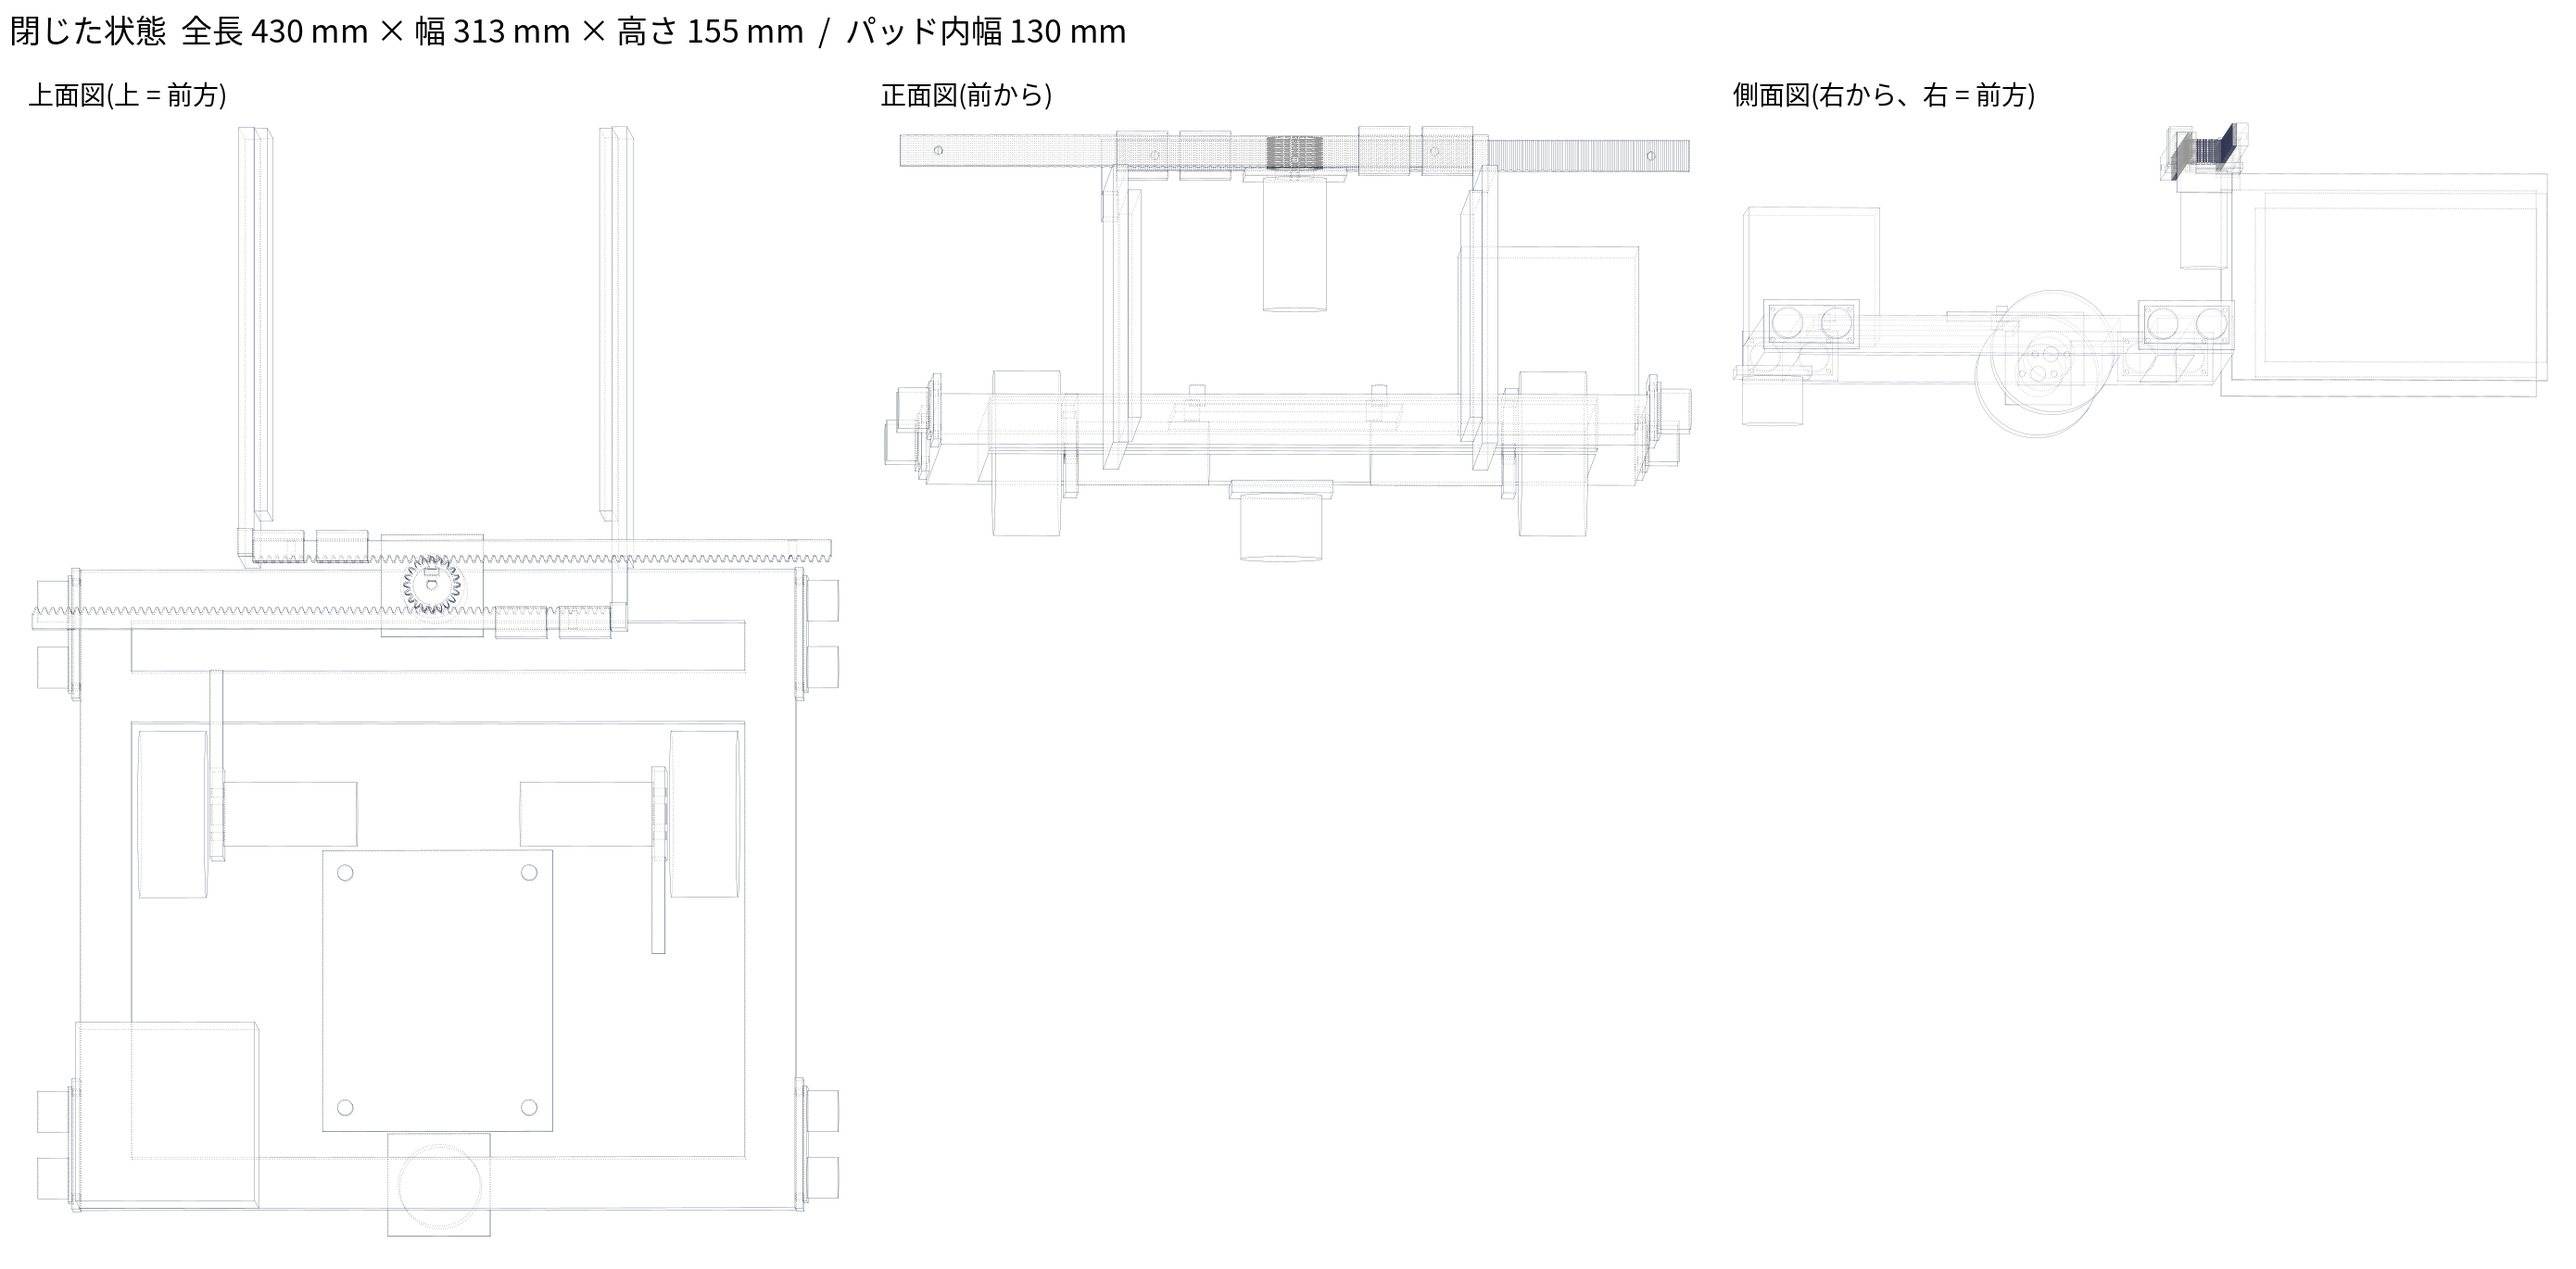
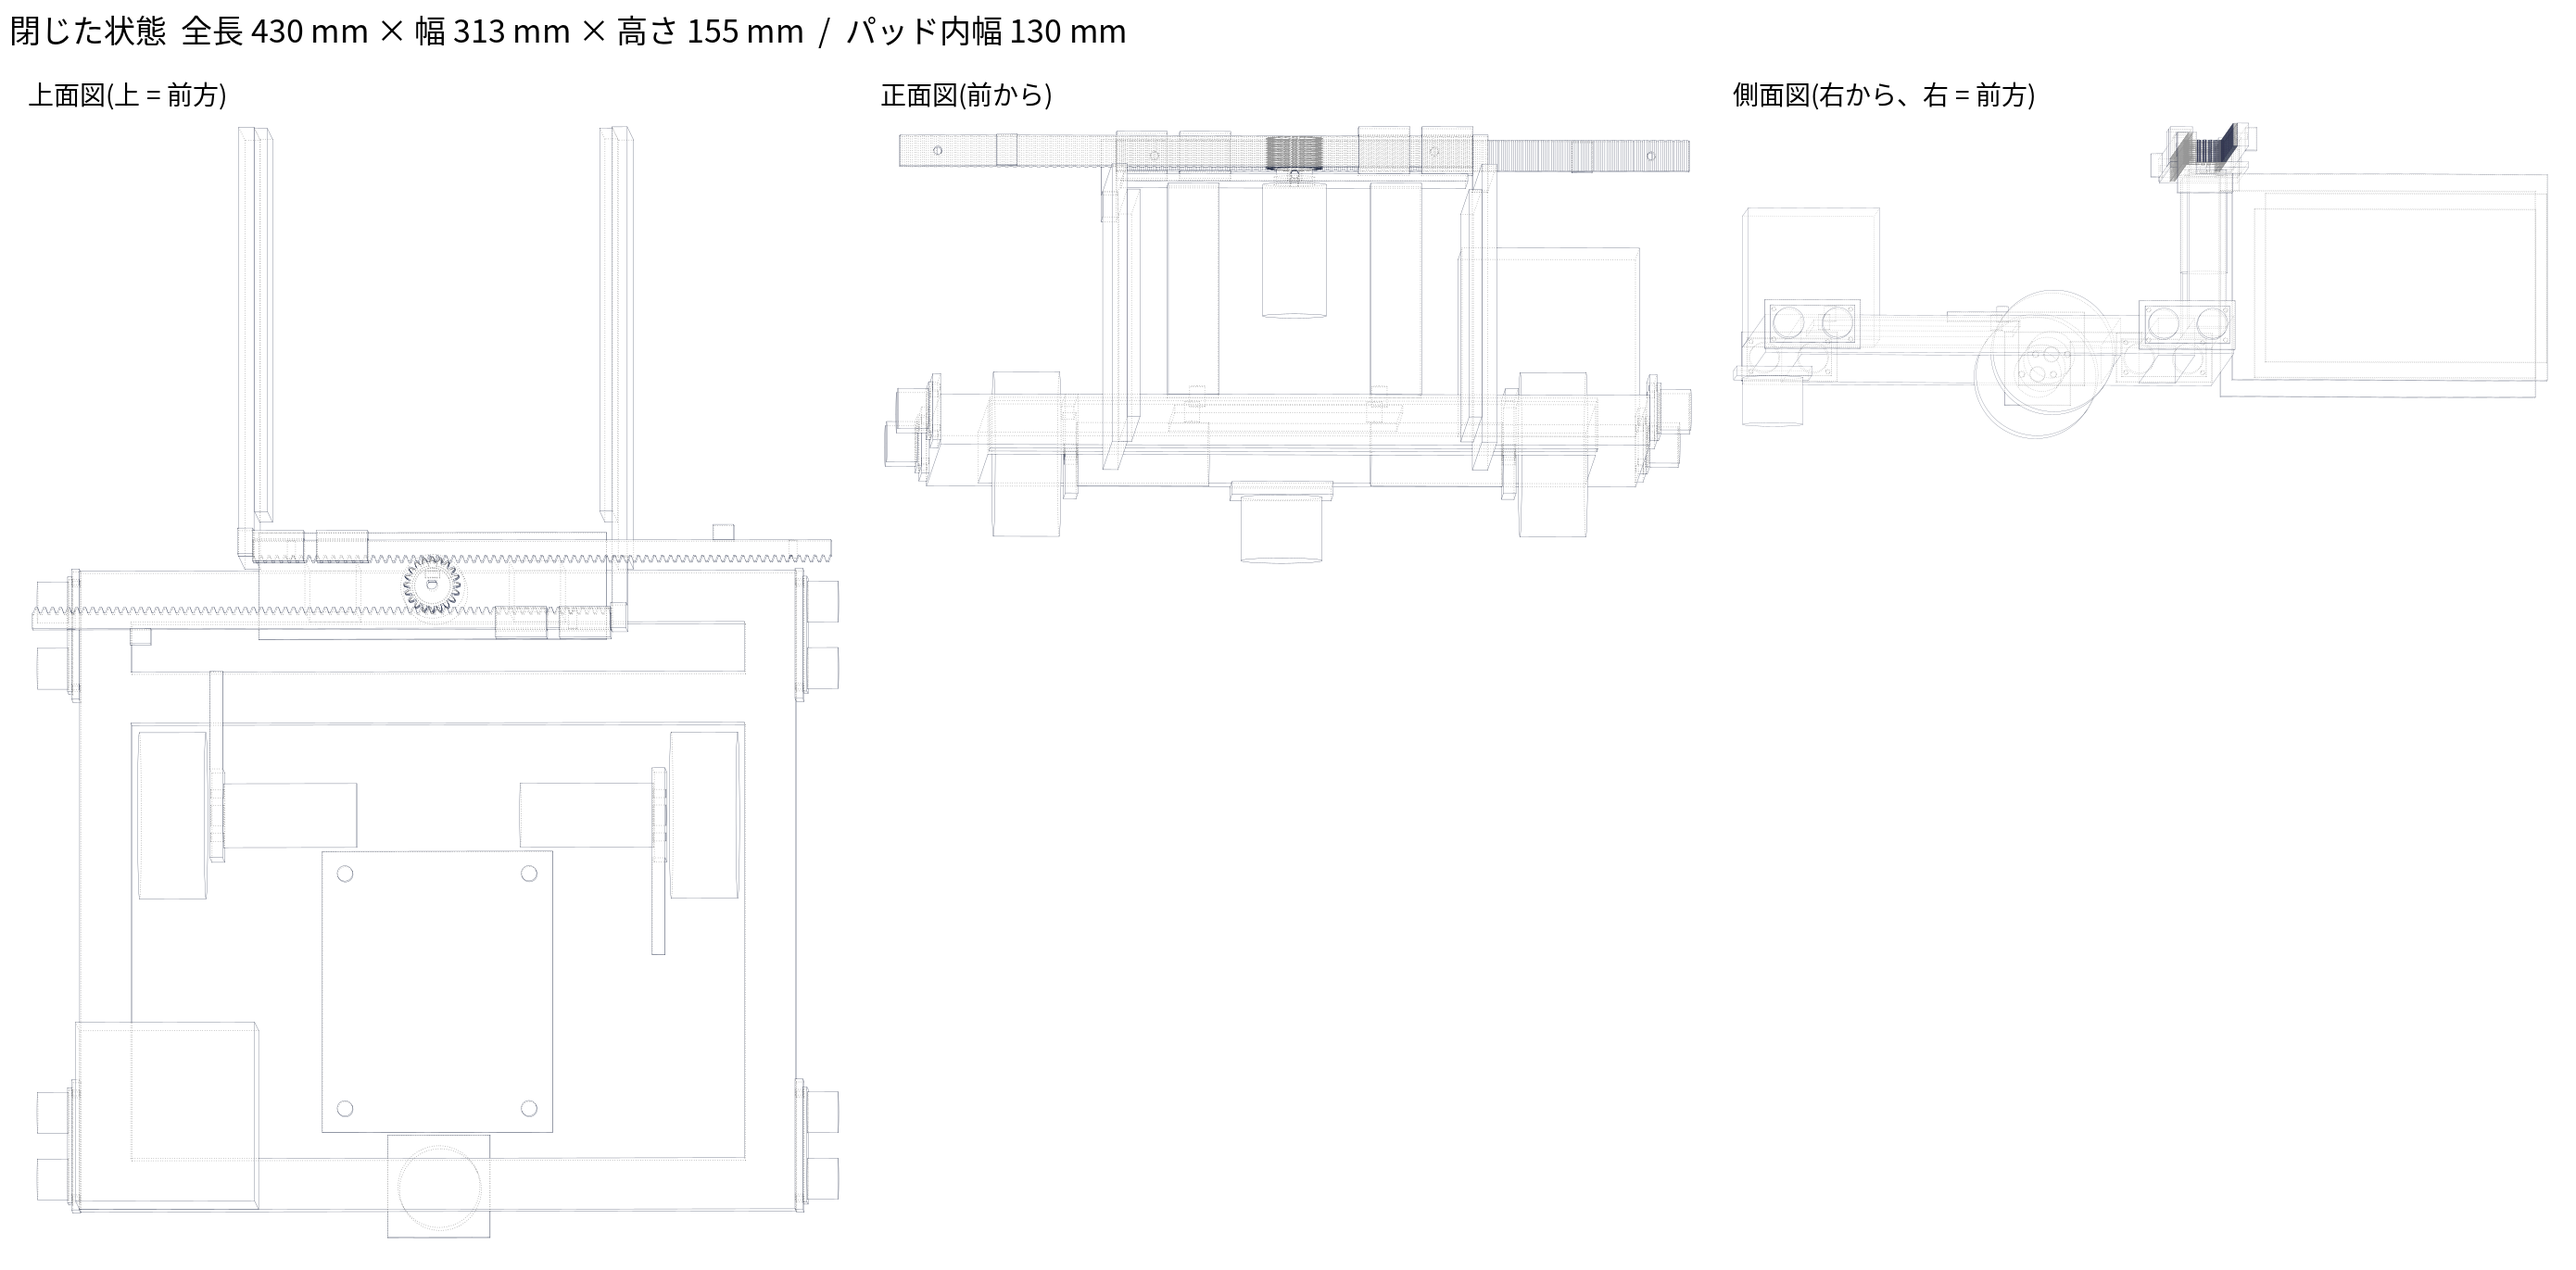
fix(mechanical): model the gripper deck, uprights and rack stops
Claude-Session: https://claude.ai/code/session_01ENsByEFNd15FuMFFPy7PpL

diff --git a/mechanical/assembly.py b/mechanical/assembly.py
@@ -22,7 +22,8 @@ from build123d import Align, Box, Cylinder, Part, Pos, Rot  # noqa: E402
 
 from params import (CASTER_D, CASTER_H, EXTRUSION, FRAME_W, FRAME_Z, MOTOR_DIA, MOTOR_LEN,  # noqa: E402
                     SONAR_SPACING, SONAR_Z, WHEEL_D, WHEEL_W, WHEEL_X)
-from parts.chassis import MOUNT_T, board_mount, caster_mount, drive_motor_mount, frame_members  # noqa: E402
+from parts.chassis import (MOUNT_T, board_mount, caster_mount, drive_motor_mount, frame_members,  # noqa: E402
+                           upright_members)
 from parts.sensors import HOLDER_T, sonar_body, sonar_mount  # noqa: E402
 
 WHEEL_Y = FRAME_W / 2 - EXTRUSION - 3 - WHEEL_W / 2   # wheel centre |y|
@@ -74,14 +75,16 @@ from params import ARM_LEN, BOX, CLOSED_INNER, GEAR_FACE, RACK_Z  # noqa: E402
 import math  # noqa: E402
 
 from parts.gears import RACK_LEN, pinion, rack, rack_teeth  # noqa: E402
-from parts.gripper import (ARM_Z_MAX, GRIP_PLATE_T, PINION_GAP, arm, guide_block,  # noqa: E402
-                           grip_motor_mount, pad)
+from parts.gripper import (ARM_Z_MAX, CLEAR, DECK_T, WALL, arm, deck, guide_block, pad,  # noqa: E402
+                           rack_stop)
 
 ARM_X0 = FRAME_D / 2 + 2.0            # arm plates start just ahead of the frame
 ARM_X1 = FRAME_D / 2 + ARM_LEN        # arm tip
 PAD_X0 = ARM_X1 - BOX
 POST = 10.0                           # bracket post size
 GUIDE_SPANS = ((25.0, 45.0), (50.0, 70.0))  # |y| ranges of the guide blocks (always inside the rack overlap)
+DECK_TOP = RACK_Z - CLEAR - WALL      # guide blocks sit on the deck
+DECK_HALF_Y = 68.0                    # stays clear of the right bracket post at full close
 
 
 def arm_plate_y(open_: bool) -> float:
@@ -112,10 +115,10 @@ def gripper(open_: bool) -> dict[str, Part]:
     end_r = yr + ARM_T / 2
     parts["rack_r"] = Pos(rear, end_r + length, RACK_Z) * Rot(0, 0, -90) * rack(RACK_LEN)
     parts["pinion"] = Pos(PINION_X, 0, RACK_Z) * pinion()
-    plate_top = RACK_Z - PINION_GAP
-    parts["grip_motor"] = Pos(PINION_X, 0, plate_top - GRIP_PLATE_T - MOTOR_LEN) * Cylinder(
-        MOTOR_DIA / 2, MOTOR_LEN, align=(Align.CENTER, Align.CENTER, Align.MIN))
-    parts["grip_motor_mount"] = Pos(PINION_X, 0, plate_top) * grip_motor_mount()
+    # stops ride on the rack backs; at full open they hit the outer end of the inner guide block
+    stop_s = GUIDE_SPANS[0][0] - 8.0 - (arm_plate_y(True) - ARM_T / 2) + length
+    parts["stop_l"] = Pos(front, end_l - length, RACK_Z) * Rot(0, 0, 90) * Pos(stop_s, 0, 0) * rack_stop()
+    parts["stop_r"] = Pos(rear, end_r + length, RACK_Z) * Rot(0, 0, -90) * Pos(stop_s, 0, 0) * rack_stop()
 
     guides = None
     for y0, _y1 in GUIDE_SPANS:
@@ -124,6 +127,13 @@ def gripper(open_: bool) -> dict[str, Part]:
             g = Pos(pitch, sgn * y0, RACK_Z + GEAR_FACE / 2) * Rot(0, 0, rot) * Pos(0, 1.0, 0) * guide_block()
             guides = g if guides is None else guides + g
     parts["guides"] = guides
+
+    # deck under the guide blocks, carried by two 20mm uprights on the front frame member
+    gb = guides.bounding_box()
+    parts["deck"] = Pos(0, 0, DECK_TOP) * deck(gb.min.X, gb.max.X, DECK_HALF_Y, PINION_X)
+    parts["grip_motor"] = Pos(PINION_X, 0, DECK_TOP - DECK_T - MOTOR_LEN) * Cylinder(
+        MOTOR_DIA / 2, MOTOR_LEN, align=(Align.CENTER, Align.CENTER, Align.MIN))
+    parts["uprights"] = upright_members()[0][2] + upright_members()[1][2]
 
     rack_top = RACK_Z + GEAR_FACE
     for side, y in (("l", yl), ("r", yr)):
@@ -170,7 +180,7 @@ def printed_parts() -> dict[str, tuple[Part, int]]:
         "pad": (pad(), 2),
         "bracket_l": (g["bracket_l"], 1),
         "bracket_r": (g["bracket_r"], 1),
-        "grip_motor_mount": (grip_motor_mount(), 1),
+        "deck": (gripper(True)["deck"], 1),
         "drive_motor_mount": (_drive_motor_mount(), 2),
         "caster_mount": (caster_mount(), 1),
         "board_mount": (board_mount(), 1),

diff --git a/mechanical/parts/gripper.py b/mechanical/parts/gripper.py
@@ -11,8 +11,7 @@ CLEAR = 0.3
 WALL = 3.0
 ARM_Z_MIN = PAD_Z_MIN - 10
 ARM_Z_MAX = PAD_Z_MAX + 10
-GRIP_PLATE_T = 3.0
-PINION_GAP = 1.0   # pinion underside above the motor plate
+DECK_T = 3.0
 
 
 RACK_DEPTH = 2.25 * MODULE + RACK_BASE  # tooth tip to back face
@@ -42,17 +41,18 @@ def arm_bracket(height: float) -> Part:
     return Box(20, ARM_T, height, align=(Align.MIN, Align.CENTER, Align.MIN))
 
 
-def grip_motor_mount() -> Part:
-    """Plate holding the JGA25-370 vertically (shaft up) under the pinion. Plate top at z = 0; the gearbox
-    face screws to its underside (z = -GRIP_PLATE_T) so the shaft reaches into the pinion."""
-    plate = Box(40, 40, GRIP_PLATE_T, align=(Align.CENTER, Align.CENTER, Align.MAX))
-    plate -= Cylinder(7.5, GRIP_PLATE_T + 1, align=(Align.CENTER, Align.CENTER, Align.MAX))  # shaft boss
+def deck(x0: float, x1: float, half_y: float, hole_x: float) -> Part:
+    """Plate under the guide blocks (top at z = 0); the gripper motor screws to its underside and the
+    pinion hub passes through the centre hole at x = hole_x."""
+    plate = Pos(x0, -half_y, -DECK_T) * Box(x1 - x0, 2 * half_y, DECK_T, align=(Align.MIN, Align.MIN, Align.MIN))
+    plate -= Pos(hole_x, 0, 0) * Cylinder(8.0, 2 * DECK_T + 1)
     for dx in (-MOTOR_HOLE_PITCH / 2, MOTOR_HOLE_PITCH / 2):
-        plate -= Pos(dx, 0, 0) * Cylinder(MOTOR_HOLE_D / 2, GRIP_PLATE_T + 1,
-                                           align=(Align.CENTER, Align.CENTER, Align.MAX))
+        plate -= Pos(hole_x + dx, 0, 0) * Cylinder(MOTOR_HOLE_D / 2, 2 * DECK_T + 1)
     return plate
 
 
 def rack_stop() -> Part:
-    """Block bolted on the rack; hits a guide block at the end of travel."""
-    return Box(8, RACK_DEPTH + 4, GEAR_FACE + 2 * WALL, align=(Align.MIN, Align.MAX, Align.CENTER))
+    """Block bolted to the rack back face (local -Y side, x 0..8). At full open it hits the end face of a
+    guide block. Local frame = rack frame: back face at y = -(1.25m + RACK_BASE)."""
+    back = -(1.25 * MODULE + RACK_BASE)
+    return Pos(0, back, 0) * Box(8, 6, GEAR_FACE, align=(Align.MIN, Align.MAX, Align.MIN))

diff --git a/mechanical/parts/gears.py b/mechanical/parts/gears.py
@@ -15,7 +15,9 @@ RACK_BASE = 6.0  # rack body thickness behind the tooth roots
 M3_CLEAR = 3.2
 M3_NUT_AF = 5.6
 M3_NUT_T = 2.6
-SET_SCREW_Z = 3.0  # the 10mm motor shaft enters ~6mm, so the set screw sits low
+HUB_D = 14.0
+HUB_H = 5.0        # passes through the deck so the 10mm motor shaft engages ~8mm
+SET_SCREW_Z = -HUB_H / 2
 
 
 def _prism(points: list[tuple[float, float]], height: float) -> Part:
@@ -28,16 +30,18 @@ def pinion_blank() -> Part:
 
 
 def pinion() -> Part:
-    """Gear centred on the Z axis, z 0..GEAR_FACE, D bore with an M3 set screw + nut trap on +X."""
+    """Gear centred on the Z axis (gear z 0..GEAR_FACE) with a hub below (z -HUB_H..0) that reaches down
+    through the deck to the motor shaft. D bore all through; M3 set screw + nut trap in the hub on +X."""
     r = MOTOR_SHAFT_D / 2
     flat = MOTOR_SHAFT_FLAT - r  # centre -> flat
-    bore = Cylinder(r, GEAR_FACE, align=(Align.CENTER, Align.CENTER, Align.MIN))
-    bore -= Pos(flat + r, 0, GEAR_FACE / 2) * Box(2 * r, 2 * r + 1, GEAR_FACE + 1)
+    body = pinion_blank() + Pos(0, 0, -HUB_H) * Cylinder(HUB_D / 2, HUB_H, align=(Align.CENTER, Align.CENTER, Align.MIN))
+    total = GEAR_FACE + HUB_H
+    bore = Pos(0, 0, -HUB_H) * Cylinder(r, total, align=(Align.CENTER, Align.CENTER, Align.MIN))
+    bore -= Pos(flat + r, 0, -HUB_H + total / 2) * Box(2 * r, 2 * r + 1, total + 1)
     screw = Pos(0, 0, SET_SCREW_Z) * Rot(0, 90, 0) * Cylinder(M3_CLEAR / 2, 12,
-                                                                align=(Align.CENTER, Align.CENTER, Align.MIN))
-    nut = Pos(5.0, 0, SET_SCREW_Z - M3_NUT_AF / 2) * Box(M3_NUT_T, M3_NUT_AF, GEAR_FACE,
-                                          align=(Align.CENTER, Align.CENTER, Align.MIN))
-    return pinion_blank() - bore - screw - nut
+                                                              align=(Align.CENTER, Align.CENTER, Align.MIN))
+    nut = Pos(4.5, 0, SET_SCREW_Z) * Box(M3_NUT_T, M3_NUT_AF, M3_NUT_AF + 1)
+    return body - bore - screw - nut
 
 
 def rack_teeth(length: float) -> int:

diff --git a/mechanical/cutlist.py b/mechanical/cutlist.py
@@ -6,13 +6,13 @@ from collections import Counter
 from pathlib import Path
 
 from params import EXTRUSION
-from parts.chassis import frame_members
+from parts.chassis import frame_members, upright_members
 
 
 def cutlist() -> list[tuple[float, int, list[str]]]:
     counts: Counter[float] = Counter()
     names: dict[float, list[str]] = {}
-    for name, length, _ in frame_members():
+    for name, length, _ in frame_members() + upright_members():
         counts[length] += 1
         names.setdefault(length, []).append(name)
     return [(length, counts[length], names[length]) for length in sorted(counts, reverse=True)]
@@ -20,7 +20,7 @@ def cutlist() -> list[tuple[float, int, list[str]]]:
 
 def write(path: Path) -> None:
     lines = [f"# アルミフレーム切断表({EXTRUSION:.0f}mm 角)", "", "| 長さ (mm) | 本数 | 部位 |", "|---|---|---|"]
-    lines += [f"| {length:.0f} | {n} | {', '.join(names)} |" for length, n, names in cutlist()]
+    lines += [f"| {length:.1f} | {n} | {', '.join(names)} |" for length, n, names in cutlist()]
     path.parent.mkdir(parents=True, exist_ok=True)
     path.write_text("\n".join(lines) + "\n")
 

diff --git a/mechanical/tests/test_assembly.py b/mechanical/tests/test_assembly.py
@@ -113,3 +113,27 @@ def test_pad_height_hits_box():
         bb = OPEN[side].bounding_box()
         assert bb.min.Z == pytest.approx(PAD_Z_MIN) and bb.max.Z == pytest.approx(PAD_Z_MAX)
         assert 0 <= bb.min.Z and bb.max.Z <= BOX
+
+
+def _touching(a, b) -> bool:
+    return a.distance_to(b) < 0.05
+
+
+def test_gripper_is_carried_by_the_frame():
+    for parts in (OPEN, CLOSED):
+        assert _touching(parts["guides"], parts["deck"])
+        assert _touching(parts["deck"], parts["uprights"])
+        assert _touching(parts["uprights"], parts["frame"])
+        assert _touching(parts["grip_motor"], parts["deck"])
+
+
+def test_rack_stops_hit_guides_at_full_open():
+    for side in ("l", "r"):
+        assert _touching(OPEN[f"stop_{side}"], OPEN["guides"]), side
+        assert not _touching(CLOSED[f"stop_{side}"], CLOSED["guides"]), side
+
+
+def test_brackets_hit_guides_at_full_close():
+    for side in ("l", "r"):
+        assert _touching(CLOSED[f"bracket_{side}"], CLOSED["guides"]), side
+        assert not _touching(OPEN[f"bracket_{side}"], OPEN["guides"]), side

diff --git a/mechanical/parts/chassis.py b/mechanical/parts/chassis.py
@@ -60,3 +60,18 @@ def board_mount() -> Part:
             plate += Pos(sx * (BOARD[0] / 2 - 4), sy * (BOARD[1] / 2 - 4), 3) * Cylinder(3, 8,
                                                                                       align=(Align.CENTER, Align.CENTER, Align.MIN))
     return plate
+
+
+UPRIGHT_Y = 40.0   # clear of the gripper motor (r 12.5) and of the right bracket (|y| >= 70)
+
+
+def upright_members() -> list[tuple[str, float, Part]]:
+    """Two vertical 20mm extrusions on the front member carrying the gripper deck (top at DECK_BOTTOM)."""
+    from params import RACK_Z
+
+    deck_bottom = RACK_Z - 0.3 - 3.0 - 3.0  # rack clearance, guide wall, deck thickness
+    length = deck_bottom - (FRAME_Z + E)
+    x = FRAME_D / 2 - E / 2
+    return [(f"upright_{n}", length,
+             Pos(x, s * UPRIGHT_Y, FRAME_Z + E) * Box(E, E, length, align=(Align.CENTER, Align.CENTER, Align.MIN)))
+            for n, s in (("l", 1), ("r", -1))]

diff --git a/mechanical/tests/test_gears.py b/mechanical/tests/test_gears.py
@@ -3,18 +3,20 @@ import math
 import pytest
 from assembly import PINION_X, rack_pitch_lines
 from params import GEAR_FACE, PINION_TEETH, MODULE, STROKE
-from parts.gears import RACK_LEN, pinion, pinion_blank, rack
+from parts.gears import HUB_H, RACK_LEN, pinion, pinion_blank, rack
 
 
 def test_pinion_outer_diameter():
     bb = pinion().bounding_box()
     assert bb.size.X == pytest.approx(22.0, abs=0.1)
     assert bb.size.Y == pytest.approx(22.0, abs=0.1)
-    assert bb.size.Z == pytest.approx(GEAR_FACE, abs=1e-6)
+    assert bb.size.Z == pytest.approx(GEAR_FACE + HUB_H, abs=1e-6)
 
 
 def test_pinion_has_d_bore():
-    removed = pinion_blank().volume - pinion().volume
+    # D bore through the 12mm gear section alone removes at least 80% of a 4mm cylinder
+    gear_only = pinion() & pinion_blank()
+    removed = pinion_blank().volume - gear_only.volume
     assert removed >= math.pi * 2**2 * GEAR_FACE * 0.8
 
 

diff --git a/docs/superpowers/specs/2026-10-15-carrier-robot-design.md b/docs/superpowers/specs/2026-10-15-carrier-robot-design.md
@@ -90,7 +90,8 @@
 - ピニオン1個でラック2本を逆向きに動かし、左右のアームを対称に開閉する。
 - アームは前方へ約 170mm 伸び、内側の床から約 30〜120mm の高さにゴム付きパッドを付ける。
 - ストローク:開いたとき内側 約400mm(箱2個と隙間の合計 348.5mm に余裕を足す)。閉じきりで約130mm(箱1個も把持可能。箱幅より狭くして、空のときと箱1個のときを位置で区別できるようにする)。箱2個を挟むと約300mm。
-- 開閉の両端に機械的なストッパーを付ける。リミットスイッチは使わない。
+- ガイドブロックは3Dプリントのデッキ(厚さ3mm)に載せ、デッキはフレーム前端の横材に立てた 20mm 角アルミの柱2本(長さ約84mm)で支える。把持モーターはデッキの下面に付け、ピニオンの下側のハブ(φ14 × 5mm)がデッキの穴を通ってモーター軸を受ける。
+- 開閉の両端は機械的に止める。開ききりはラック背面のストッパーがガイドブロックに当たる位置、閉じきりはアームのブラケットがガイドブロックの端に当たる位置。リミットスイッチは使わない。
 - 箱は持ち上げず、床を滑らせて運ぶ。
 - 壁際の箱にも、横から挟むため壁と干渉しない。
 
